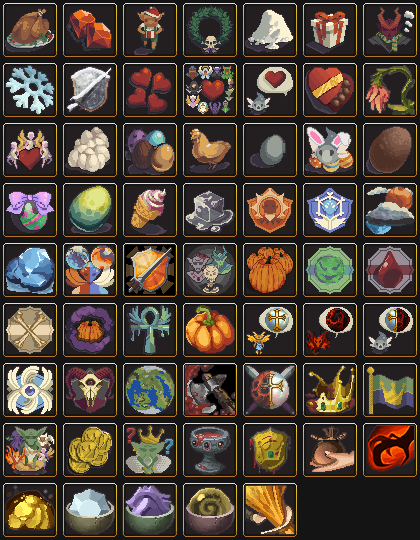
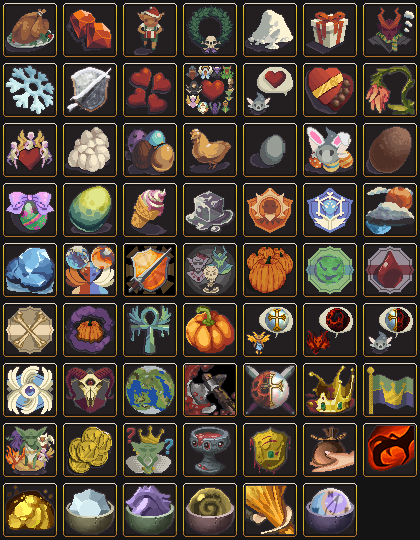
Idillium Update

Changed region(s): [[0.7119, 0.8889, 0.8667, 1.0]]

diff --git a/Events/index.php b/Events/index.php
@@ -19,8 +19,8 @@
         </p>
 		<script>
 			var currentTime = new Date().getTime();
-			var countDownDate1 = new Date("August 26, 2021 12:01:00 UTC").getTime();
-			var countDownDate2 = new Date("September 2, 2021 18:59:00 UTC").getTime();
+			var countDownDate1 = new Date("September 23, 2021 12:01:00 UTC").getTime();
+			var countDownDate2 = new Date("September 30, 2021 18:59:00 UTC").getTime();
 			var x = setInterval(function() {
 				var now = new Date().getTime();
 				var distance = countDownDate1 - now;
@@ -62,7 +62,7 @@
                     <tr>
                         <th>Rubies</th>
                         <th colspan="1">Event</th>
-                        <th colspan="7">Total Cumulative Bonus 399%</th>
+                        <th colspan="7">Total Cumulative Bonus: 411%</th>
                     </tr>
                 </thead>
                 <tbody>
@@ -153,7 +153,7 @@
                             <td></td>
                             <td>12%</td>
 							<td>12%</td>
-							<td></td>
+							<td>12%</td>
                         </tr>
                         <tr>
                             <td>40 (8)</td>
@@ -660,6 +660,15 @@
 					<p><b>Requirement</b>: While affiliated with the Druids, collect a stack of at least 720 Equilibrium Fragments.</p>
 					<p><b>Note</b>: If you unlock this feat, you will permanently unlock a new cosmetic shape for your coin particles.</p>
 					" coords="243,483,296,536" shape="rect">
+					<area research="
+					<p><b>Idillium</b></p>
+					<p><b><img src='/realm/Factions/picks/IdilliumExplorer.png' align='middle'> Idillium Explorer</b></p>
+					<p><b>Type</b>: Feat</p>
+					<p><b>Requirement</b>: Cast a Remnant spell with 6 different factions.</p>
+					<p><b>Note</b>: If you unlock this feat, you will permanently unlock a new upgrade with the same name.</p>
+					<p><b>Effect</b>: Reduce the cost of all spells by 10%.</p>
+					<p><b>Note</b>: Once unlocked, it is available during any Seasonal Event.</p>
+					" coords="303,483,356,536" shape="rect">
                 </map>
             </p>
         </center>
@@ -818,6 +827,9 @@
 					<p><b><img src='/realm/Factions/picks/SearingSummer.png' align='middle'> Searing Summer (Summer Event)</b></p>
 					<p><b>Effect</b>: Increase the production of all buildings by 50%.</p>
 					<br/>
+					<p><b><img src='/realm/Factions/picks/IdilliumExplorer.png' align='middle'> Idillium Explorer (Idillium)</b></p>
+					<p><b>Effect</b>: Reduce the cost of all spells by 10%.</p>
+					<br/>
                     <p><b><img src="/realm/Factions/picks/SpectralSurge.png" align="middle"> Spectral Surge (Halloween Event)</b></p>
                     <p><b>Effect</b>: Turn Spiritual Surge into Spectral Surge, and multiplies Spectral Surge base bonus by the Cumulative Event Bonus.</p>
                     <br/>
@@ -831,6 +843,202 @@
         <div class="shlisting">
 			<p onclick="shohid($(this));"><b> <a href="#" onclick="return false;">2021 Events</a></b></p>
             <div class="category autohide">
+				<div class="shelementwhole">
+					<p onclick="shohid($(this));"><b><a href="#" onclick="return false;">Idillium (Sep 23 - Sep 30, 2021)</a></b></p>
+                    <div class="autohide">
+						<p>The Idillium event will be starting on <b>Sep 23rd 2021, 12:01 PM UTC</b> and will end on <b>Sep 30th 2021, 6:59 PM UTC</b>.</p>
+                        <p>The event will feature three Resources, <b>Crystal Prisms</b>, <b>Entropic Drops</b> and <b>Equilibrium Fragments</b>, They will appear in a random location of the game screen at a rate of 1 per minute, you can stack them for 16 hours, up to 960.</p>
+                        <p>Being aligned with an elite faction will double the speed a resource is gained.</p>
+                        <p>You need 2814 resources of each (8442 total) to complete all quests.</p>
+                        <p>Total time needed 5 days 20 hours and 42 minutes without elite factions or scrying.</p>
+                        <p>Which prism appears depends on what faction you are aligned with:</p>
+                        <p>As Fairy, Demon or Faceless, Entropic Drop appears.</p>
+                        <p>As Elf, Goblin or Druid, Equilibrium Fragment appears.</p>
+                        <p>As Angel, Undead or Titan, Crystal Prism appears.</p>
+                        <p>As factionless or Mercenary, all three will appear.</p>
+                        <p>As Factionless or Mercenary you can collect any of the three. By collecting one, the others will disappear.</p>
+                        <style>
+                            div#images {
+                                width: 100%;
+                                text-align: left;
+                            }
+
+                            div#images div {
+                                display: inline-block;
+                            }
+                        </style>
+                        <br>
+                        <p><b><center>Event Resources</center></b></p>
+                        <br>
+                        <div id="images">
+                            <center>
+                                <div>
+                                    <center><img src="/realm/Factions/picks/CrystalPrismCurrency.png" width="54%" height="54%" /></center>
+                                    <center><b>Crystal Prism</b></center>
+                                </div>
+                                &nbsp&nbsp&nbsp&nbsp&nbsp
+                                <div>
+                                    <center><img src="/realm/Factions/picks/EntropicDropCurrency.png" width="54%" height="54%" /></center>
+                                    <center><b>Entropic Drop</b></center>
+                                </div>
+                                &nbsp
+                                <div>
+                                    <center><img src="/realm/Factions/picks/EquilibriumFragmentCurrency.png" width="34%" height="34%" /></center>
+                                    <center><b>Equilibrium Fragment</b></center>
+                                </div>
+                            </center>
+                        </div>
+                        <hr>
+                        <p><b>Event Upgrades</b></p>
+                        <p><img src="/realm/Factions/picks/BrokenMirror.png" align="middle"> <b>Broken Mirror</b></p>
+                        <p><b>Effect</b>: Increase the production of all buildings based on the total amount of Idillium Resources collected.</p>
+                        <p><b>Formula</b>: ((1 + 0.0035 * ((x + y + z) / 3)) * [(1 + min(1.6 * (x / 25) - 0.002 * (x / 25) ^ 2 + 0.000024 * (x / 25) ^ 3,12500)) * (repeat, replace x with y and z)] ^ 0.4), where x is Crystal Prisms (Order), y is Entropic Drops (Chaos), z is Equilibrium Fragments (Balance)</p>
+                        <br>
+                        <p><b>Remnants</b></p>
+                        <p><b>Cost to Upgrade</b>: floor((13 * x + 1) ^ 1.15) Prisms, where x is remnant level.</p>
+                        <p><b>Level 5</b>: Perk 1: total cost: 230 Prisms.</p>
+                        <p><b>Level 10</b>: Perk 2: total cost: 1138 Prisms.</p>
+                        <p><b>Level 15</b>: Perk 3: total cost: 2814 Prisms.</p>
+                        <br>
+                        <p><img src="/realm/Factions/picks/OrderRemnant.png" align="middle"> <b>Order Remnant</b></p>
+                        <p><b>Requirement to Collect</b>: Angels, Undead, Titans, Mercenary or factionless.</p>
+                        <p><b>Effect</b>: Increase the production of all buildings based on Remnant level. Does not suffer Ascension penalties.</p>
+                        <p><b>Formula</b>: (x + 10 * 1.1 ^ (10 + x)), where x is remnant level.</p>
+                        <br>
+                        <p><img src="/realm/Factions/picks/ChaosRemnant.png" align="middle"> <b>Chaos Remnant</b></p>
+                        <p><b>Requirement to Collect</b>: Fairies, Demon, Faceless, Mercenary or factionless.</p>
+                        <p><b>Effect</b>: Increases Assistants based on remnant level.</p>
+                        <p><b>Formula</b>: (x + 10 * 1.1 ^ (10 + x)), where x is remnant level.</p>
+                        <br>
+                        <p><img src="/realm/Factions/picks/BalanceRemnant.png" align="middle"> <b>Balance Remnant</b></p>
+                        <p><b>Requirement to Collect</b>: Elves, Goblins, Druids, Mercenary or factionless.</p>
+                        <p><b>Effect</b>: Increases Faction Coin Find Chance based on remnant level.(multiplicative)</p>
+                        <p><b>Formula</b>: (x + 10 * 1.1 ^ (10 + x)), where x is remnant level.</p>
+                        <hr>
+                        <p><b>Quest</b></p>
+                        <p><b>Note</b>: Completing all Quest will increase your Cumulative Event bonus by an additional 12%.</p>
+                        <br>
+                        <p><img src="/realm/Factions/picks/OrderRestoration1.png" align="middle"> <b>Order Restoration 1</b></p>
+                        <p><b>Requirement</b>: Order Remnant level 5.</p>
+                        <p><b>Effect</b>: Unlocks Order Remnant Perk 1.</p>
+                        <p><b>Effect</b>: Adds 1% to your Cumulative Event bonus.</p>
+                        <p><img src="/realm/Factions/picks/OrderRemnantPerk1.png" align="middle"> <b>Order Remnant Perk 1</b></p>
+                        <p><b>Effect</b>: Increases all spells duration and reduce all spells cost by 10%.</p>
+                        <br>
+                        <p><img src="/realm/Factions/picks/OrderRestoration2.png" align="middle"> <b>Order Restoration 2</b></p>
+                        <p><b>Requirement</b>: Order Remnant level 10.</p>
+                        <p><b>Effect</b>: Unlocks Order Remnant Perk 2.</p>
+                        <p><b>Effect</b>: Adds 1% to your Cumulative Event bonus.</p>
+                        <p><img src="/realm/Factions/picks/OrderRemnantPerk2.png" align="middle"> <b>Order Remnant Perk 2</b></p>
+                        <p><b>Effect</b>: Grants Temporal Flux spell with a cost of 1000 mana.</p>
+                        <p><img src="/realm/Factions/picks/TemporalFlux1000.png" align="middle"></p>
+                        <p><b>Effect</b>: Increase Unique building production based on time spent in this game.</p>
+                        <p><b>Effect</b>: Also multiplicatively increase Mana Regeneration based on time spent in this game.</p>
+						<p><b>Formula</b>: (3.5 * (x / 60) ^ 0.825)%, where x is time spent in this game this game.</p>
+                        <p><b>Note</b>: Temporal Flux obtained this way cannot be tiered.</p>
+                        <br>
+                        <p><img src="/realm/Factions/picks/OrderRestoration3.png" align="middle"> <b>Order Restoration 3</b></p>
+                        <p><b>Requirement</b>: Order Remnant level 15.</p>
+                        <p><b>Effect</b>: Unlocks Order Remnant Perk 3.</p>
+                        <p><b>Effect</b>: Adds 2% to your Cumulative Event bonus.</p>
+                        <p><img src="/realm/Factions/picks/OrderRemnantPerk3.png" align="middle"> <b>Order Remnant Perk 3</b></p>
+                        <p><b>Effect</b>: Increases Maximum Mana by 25%.</p>
+                        <hr>
+                        <p><img src="/realm/Factions/picks/ChaosRestoration1.png" align="middle"> <b>Chaos Restoration 1</b></p>
+                        <p><b>Requirement</b>: Chaos Remnant level 5.</p>
+                        <p><b>Effect</b>: Unlocks Chaos Remnant Perk 1.</p>
+                        <p><b>Effect</b>: Adds 1% to your Cumulative Event bonus.</p>
+                        <p><img src="/realm/Factions/picks/ChaosRemnantPerk1.png" align="middle"> <b>Chaos Remnant Perk 1</b></p>
+                        <p><b>Effect</b>: Increases Production Bonus from Gems by 18%.</p>
+                        <br>
+                        <p><img src="/realm/Factions/picks/ChaosRestoration2.png" align="middle"> <b>Chaos Restoration 2</b></p>
+                        <p><b>Requirement</b>: Chaos Remnant level 10.</p>
+                        <p><b>Effect</b>: Unlocks Chaos Remnant Perk 2.</p>
+                        <p><b>Effect</b>: Adds 1% to your Cumulative Event bonus.</p>
+                        <p><img src="/realm/Factions/picks/ChaosRemnantPerk2.png" align="middle"> <b>Chaos Remnant Perk 2</b></p>
+                        <p><b>Effect</b>: Grants Maelstrom spell with a cost of 1000 mana.</p>
+                        <p><img src="/realm/Factions/picks/Maelstrom1000.png" align="middle"></p>
+                        <p><b>Effect</b>: Increase the production of three random buildings based on one of these stats in this game, chosen at random: mana produced, trophies unlocked, Faction Coins found or amount of assistants.</p>
+                        <p><b>Formulas</b></p>
+                        <p><b>Mana</b>: (0.02 * (log10(1 + x)) ^ 5)%, where x is mana produced this game.</p>
+                        <p><b>Trophy</b>: Formula (2.5 * x ^ 0.9)%, where x is trophies unlocked.</p>
+                        <p><b>Faction Coins</b>: (0.01 * (log10(1 + x)) ^ 4)%, where x is faction coins found this game.</p>
+                        <p><b>Assistants</b>: (0.25 * (log10(1 + x)) ^ 5)%, where x is amount of assistants.</p>
+                        <p><b>Note</b>: Maelstrom obtained this way cannot be tiered.</p>
+                        <br>
+                        <p><img src="/realm/Factions/picks/ChaosRestoration3.png" align="middle"> <b>Chaos Restoration 3</b></p>
+                        <p><b>Requirement</b>: Chaos Remnant level 15.</p>
+                        <p><b>Effect</b>: Unlocks Chaos Remnant Perk 3.</p>
+                        <p><b>Effect</b>: Adds 2% to your Cumulative Event bonus.</p>
+                        <p><img src="/realm/Factions/picks/ChaosRemnantPerk3.png" align="middle"> <b>Chaos Remnant Perk 3</b></p>
+                        <p><b>Effect</b>: Increases Mana Regeneration by 50%.</p>
+                        <hr>
+                        <p><img src="/realm/Factions/picks/BalanceRestoration1.png" align="middle"> <b>Balance Restoration 1</b></p>
+                        <p><b>Requirement</b>: Balance Remnant level 5.</p>
+                        <p><b>Effect</b>: Unlocks Balance Remnant Perk 1.</p>
+                        <p><b>Effect</b>: Adds 1% to your Cumulative Event bonus.</p>
+                        <p><img src="/realm/Factions/picks/BalanceRemnantPerk1.png" align="middle"> <b>Balance Remnant Perk 1</b></p>
+                        <p><b>Effect</b>: Increases Tax Collection worth by 30 seconds.</p>
+                        <br>
+                        <p><img src="/realm/Factions/picks/BalanceRestoration2.png" align="middle"> <b>Balance Restoration 2</b></p>
+                        <p><b>Requirement</b>: Balance Remnant level 10.</p>
+                        <p><b>Effect</b>: Unlocks Balance Remnant Perk 2.</p>
+                        <p><b>Effect</b>: Adds 1% to your Cumulative Event bonus.</p>
+                        <p><img src="/realm/Factions/picks/BalanceRemnantPerk2.png" align="middle"> <b>Balance Remnant Perk 2</b></p>
+                        <p><b>Effect</b>: Grants All Creation spell with a cost of 1000 mana.</p>
+                        <p><img src="/realm/Factions/picks/AllCreation1000.png" align="middle"></p>
+                        <p><b>Effect</b>: Increase production of all buildings based on your Mana Regeneration.</p>
+                        <p><b>Formula</b>: (0.15 * ln(1 + x) ^ 3.5 + 0.9 * x ^ 0.27)%, where x is your Mana Regeneration.</p>						
+                        <p><b>Effect</b>: Also multiplicative increase Faction Coin find chance based on your Mana Regeneration.</p>
+                        <p><b>Formula</b>: (5 * ln(1 + x) ^ 2.5 + 15 * x ^ 0.15)%, where x is your Mana Regeneration.</p>
+                        <p><b>Note</b>: All Creation obtained this way cannot be tiered.</p>
+                        <br>
+                        <p><img src="/realm/Factions/picks/BalanceRestoration3.png" align="middle"> <b>Balance Restoration 3</b></p>
+                        <p><b>Requirement</b>: Balance Remnant level 15.</p>
+                        <p><b>Effect</b>: Unlocks Balance Remnant Perk 3.</p>
+                        <p><b>Effect</b>: Adds 2% to your Cumulative Event bonus.</p>
+                        <p><img src="/realm/Factions/picks/BalanceRemnantPerk3.png" align="middle"> <b>Balance Remnant Perk 3</b></p>
+                        <p><b>Effect</b>: Increases Royal Exchange Bonus by 20% (Additive).</p>
+                        <hr>
+                        <p><b>Feats</b></p>
+                        <p><b>Note</b>: If you unlock all of this event's feats, you will permanently unlock a new color option for the mana bar.</p>
+                        <br>
+                        <p><img src="/realm/Factions/picks/GentleCollector.png" align="middle"> <b>Gentle Collector</b></p>
+                        <p><b>Requirement</b>: Collect at least 720 Entropic Drops with a single click while affiliated with the Fairies.</p>
+                        <br>
+                        <p><img src="/realm/Factions/picks/AggressiveCollector.png" align="middle"> <b>Aggressive Collector</b></p>
+                        <p><b>Requirement</b>: Collect at least 720 Crystal Prisms with a single click while affiliated with the Undead.</p>
+                        <br>
+                        <p><img src="/realm/Factions/picks/GoldenAge.png" align="middle"> <b>Golden Age</b></p>
+                        <p><b>Requirement</b>: Cast Remnant spells at least 1000 times.</p>
+                        <br>
+                        <p><img src="/realm/Factions/picks/OrderRestoration.png" align="middle"> <b>Order Restoration</b></p>
+                        <p><b>Requirement</b>: Upgrade Order Remnant to Level 15.</p>
+                        <br>
+                        <p><img src="/realm/Factions/picks/ChaosRestoration.png" align="middle"> <b>Chaos Restoration</b></p>
+                        <p><b>Requirement</b>: Upgrade Chaos Remnant to Level 15.</p>
+                        <br>
+                        <p><img src="/realm/Factions/picks/BalanceRestoration.png" align="middle"> <b>Balance Restoration</b></p>
+                        <p><b>Requirement</b>: Upgrade Balance Remnant to Level 15.</p>
+                        <br>
+						<p><img src="/realm/Factions/picks/BalancedCollector.png" align="middle"> <b>Balanced Collector</b></p>
+                        <p><b>Requirement</b>: While affiliated with the Druids, collect a stack of at least 720 Equilibrium Fragments.</p>
+						<p><b>Note</b>: If you unlock this feat, you will permanently unlock a new cosmetic shape for your coin particles.</p>
+						<br>
+						<p><img src='/realm/Factions/picks/IdilliumExplorer.png' align='middle'> <b>Idillium Explorer</b></p>
+						<p><b>Requirement</b>: Cast a Remnant spell with 6 different factions.</p>
+						<p><b>Note</b>: If you unlock this feat, you will permanently unlock a new upgrade with the same name.</p>
+						<p><b>Effect</b>: Reduce the cost of all spells by 10%.</p>
+						<p><b>Note</b>: Once unlocked, it is available during any Seasonal Event.</p>
+                        <hr>
+                        <p><b>Shop Items</b></p>
+                        <p><img src="/realm/Factions/picks/IdilliumShop45.png" align="middle"> <b>1200 each Idillium Resource</b></p>
+                        <p><b>Cost</b>: 45 Rubies</p>
+                        <p><b>Description</b>: A shady prophet wants to sell you 1200 units of each Idillium Resource for 45 Rubies.</p>
+                        <p><b>Note</b>: You can purchase this an infinite amount of times.</p>
+                        <br/>
+                    </div>
+                </div>
 				<div class="shelementwhole">
                     <p onclick="shohid($(this));"><b><a href="#" onclick="return false;">Summer Festival (Aug 26 - Sep 2, 2021)</a></b></p>
                     <div class="autohide">
@@ -1939,11 +2147,11 @@
 				<div class="shelementwhole">
 					<p onclick="shohid($(this));"><b><a href="#" onclick="return false;">Idillium (Sep 23 - Sep 30, 2020)</a></b></p>
                     <div class="autohide">
-						<p>The Idillium event will be starting on <b>Sep 23th 2020, 12:01 PM UTC</b> and will end on <b>Sep 30th 2020, 6:59 PM UTC</b>.</p>
+						<p>The Idillium event will be starting on <b>Sep 23rd 2020, 12:01 PM UTC</b> and will end on <b>Sep 30th 2020, 6:59 PM UTC</b>.</p>
                         <p>The event will feature three Resources, <b>Crystal Prisms</b>, <b>Entropic Drops</b> and <b>Equilibrium Fragments</b>, They will appear in a random location of the game screen at a rate of 1 per minute, you can stack them for 16 hours, up to 960.</p>
                         <p>Being aligned with an elite faction will double the speed a resource is gained.</p>
                         <p>You need 2814 resources of each (8442 total) to complete all quests.</p>
-                        <p>Total time time needed 5 days 20 hours and 42 minutes without elite factions or scrying.</p>
+                        <p>Total time needed 5 days 20 hours and 42 minutes without elite factions or scrying.</p>
                         <p>Which prism appears depends on what faction you are aligned with:</p>
                         <p>As Fairy, Demon or Faceless, Entropic Drop appears.</p>
                         <p>As Elf, Goblin or Druid, Equilibrium Fragment appears.</p>
@@ -2103,10 +2311,6 @@
                         <p><img src="/realm/Factions/picks/GoldenAge.png" align="middle"> <b>Golden Age</b></p>
                         <p><b>Requirement</b>: Cast Remnant spells at least 1000 times.</p>
                         <br>
-						<p><img src="/realm/Factions/picks/BalancedCollector.png" align="middle"> <b>Balanced Collector</b></p>
-                        <p><b>Requirement</b>: While affiliated with the Druids, collect a stack of at least 720 Equilibrium Fragments.</p>
-						<p><b>Note</b>: If you unlock this feat, you will permanently unlock a new cosmetic shape for your coin particles.</p>
-                        <br>
                         <p><img src="/realm/Factions/picks/OrderRestoration.png" align="middle"> <b>Order Restoration</b></p>
                         <p><b>Requirement</b>: Upgrade Order Remnant to Level 15.</p>
                         <br>
@@ -2115,6 +2319,10 @@
                         <br>
                         <p><img src="/realm/Factions/picks/BalanceRestoration.png" align="middle"> <b>Balance Restoration</b></p>
                         <p><b>Requirement</b>: Upgrade Balance Remnant to Level 15.</p>
+						<br>
+                        <p><img src="/realm/Factions/picks/BalancedCollector.png" align="middle"> <b>Balanced Collector</b></p>
+                        <p><b>Requirement</b>: While affiliated with the Druids, collect a stack of at least 720 Equilibrium Fragments.</p>
+						<p><b>Note</b>: If you unlock this feat, you will permanently unlock a new cosmetic shape for your coin particles.</p>
                         <hr>
                         <p><b>Shop Items</b></p>
                         <p><img src="/realm/Factions/picks/IdilliumShop45.png" align="middle"> <b>1200 each Idillium Resource</b></p>
@@ -3197,7 +3405,7 @@
                         <p>The event will feature three Resources, <b>Crystal Prisms</b>, <b>Entropic Drops</b> and <b>Equilibrium Fragments</b>, They will appear in a random location of the game screen at a rate of 1 per minute, you can stack them for 16 hours, up to 960.</p>
                         <p>Being aligned with an elite faction will double the speed a resource is gained.</p>
                         <p>You need 2814 resources of each (8442 total) to complete all quests.</p>
-                        <p>Total time time needed 5 days 20 hours and 42 minutes without elite factions or scrying.</p>
+                        <p>Total time needed 5 days 20 hours and 42 minutes without elite factions or scrying.</p>
                         <p>Which prism appears depends on what faction you are aligned with:</p>
                         <p>As Fairy, Demon or Faceless, Entropic Drop appears.</p>
                         <p>As Elf, Goblin or Druid, Equilibrium Fragment appears.</p>
